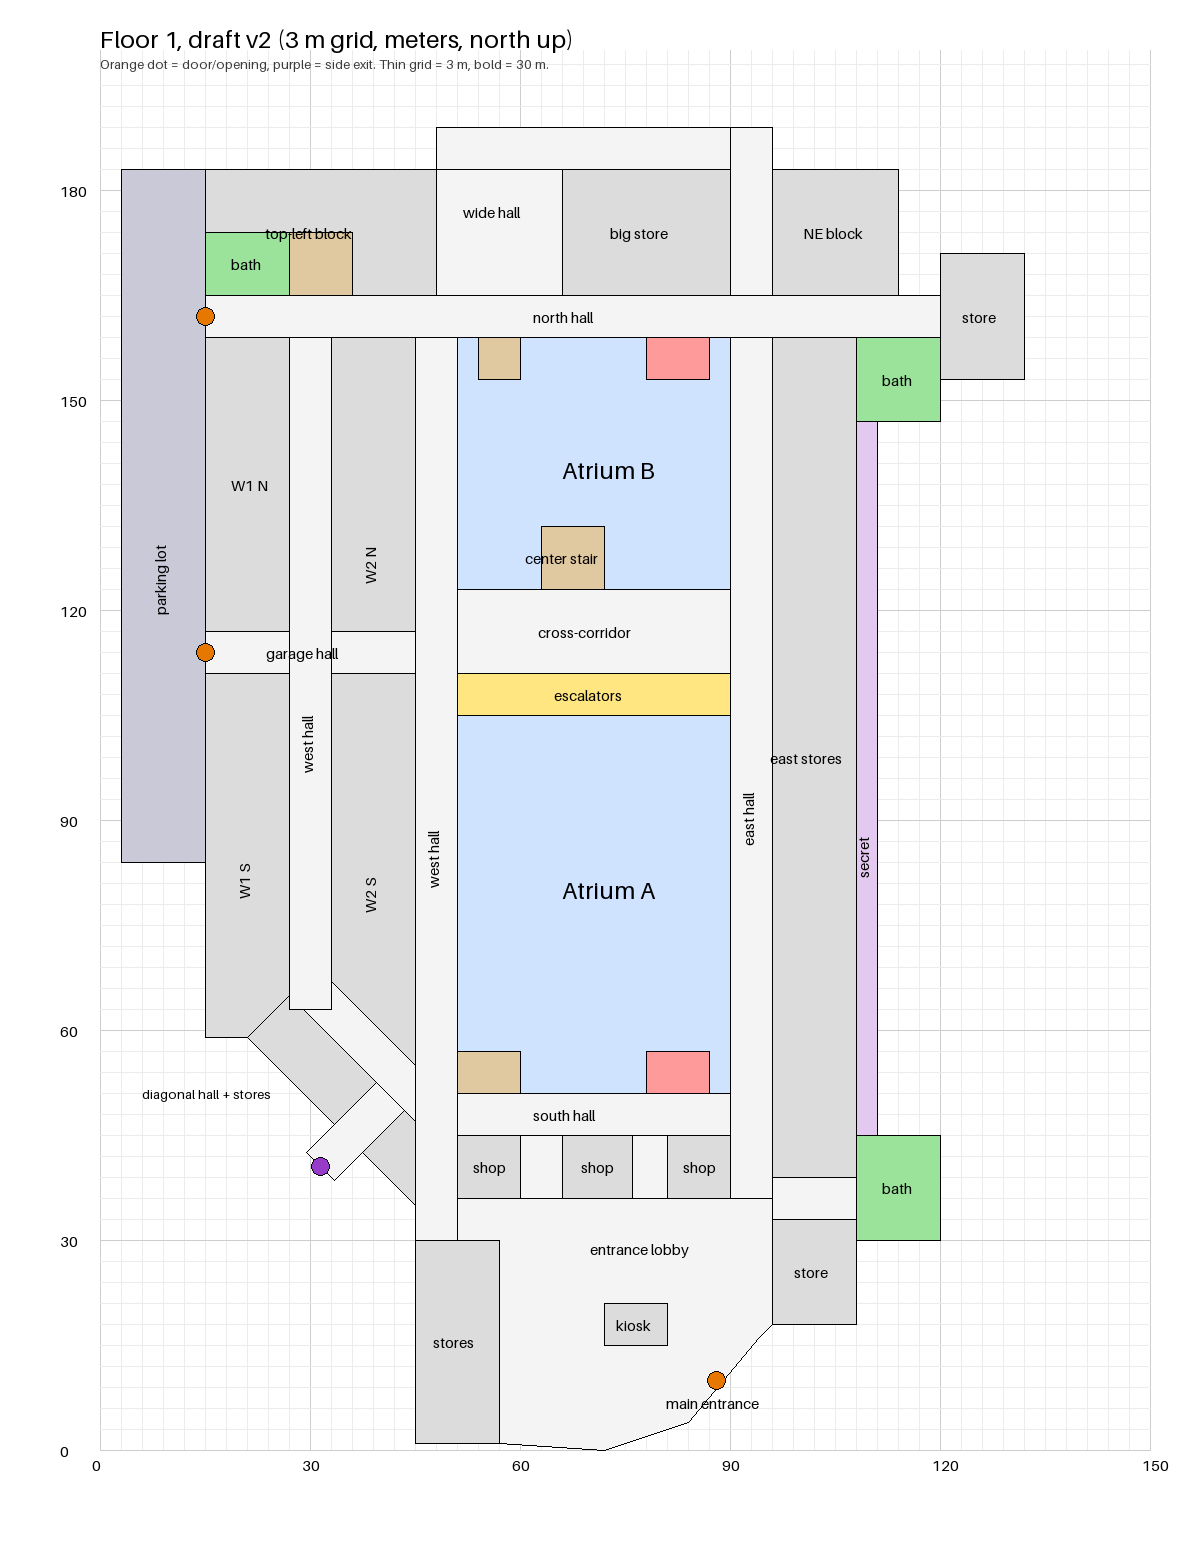
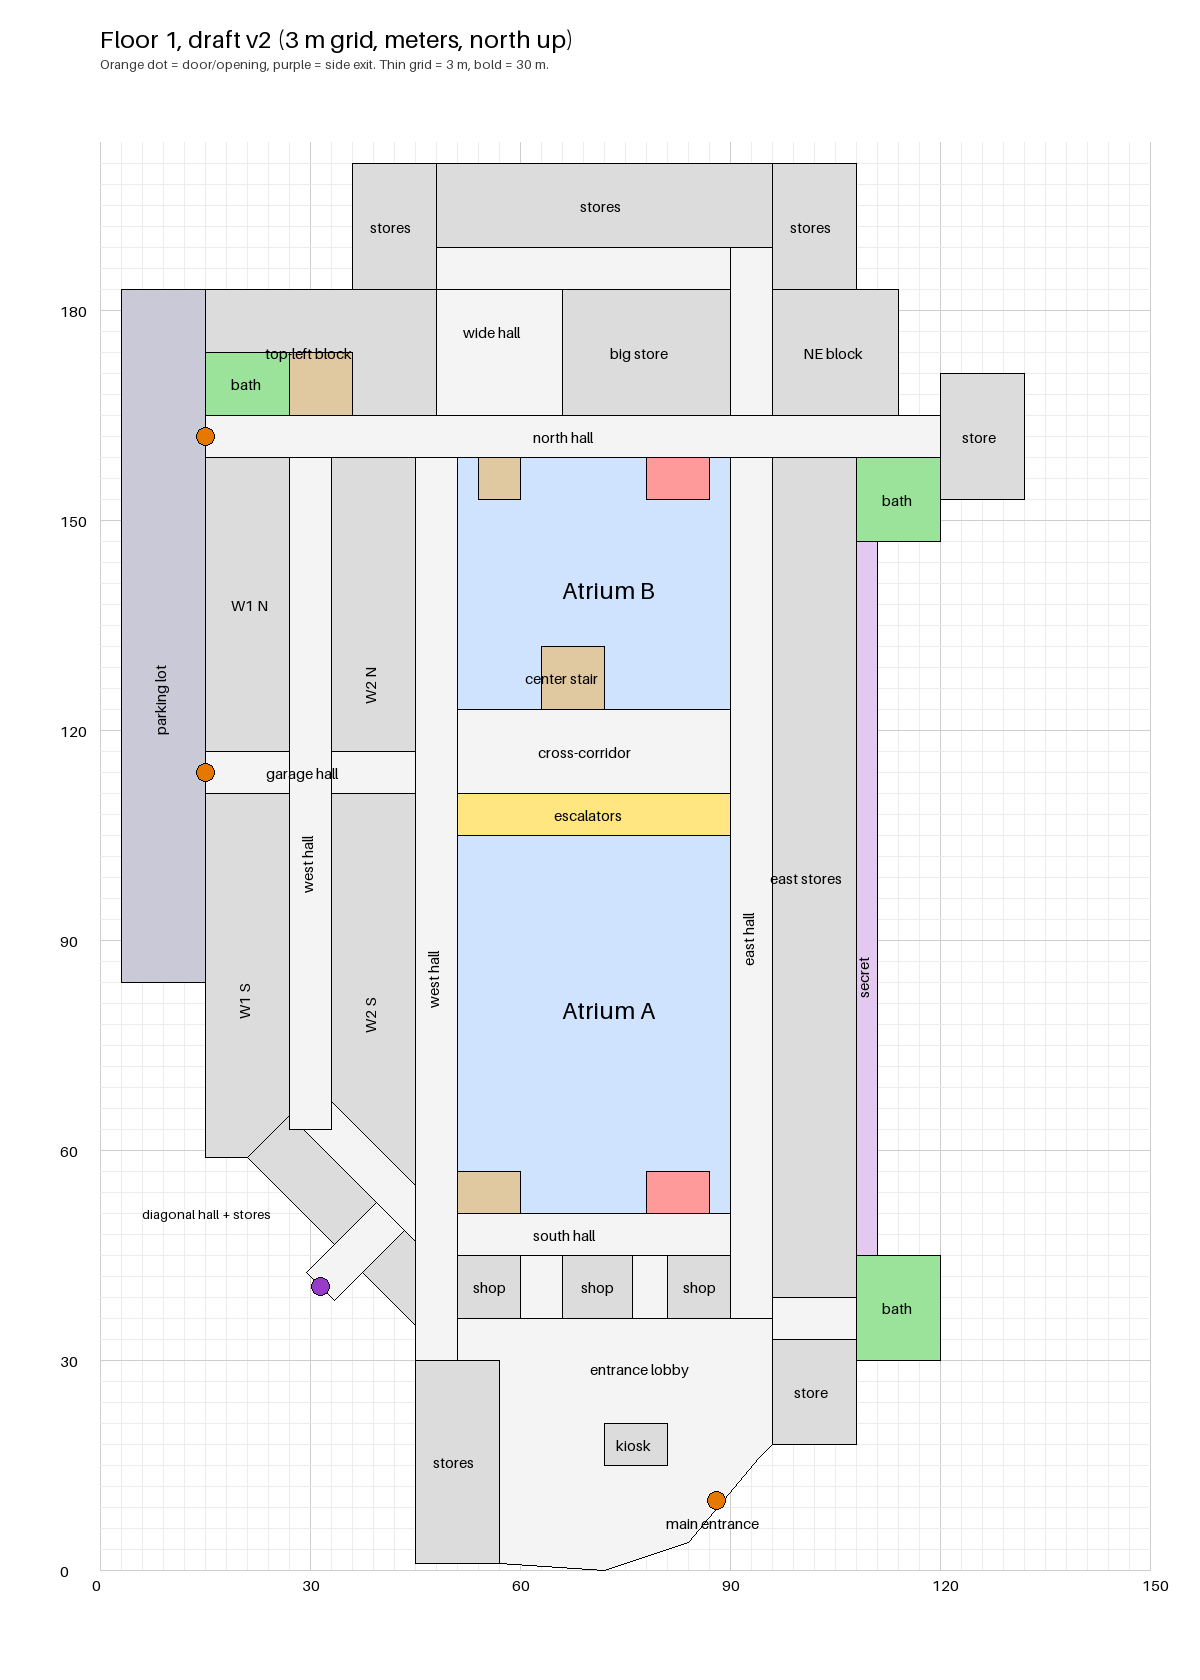
floor 1 plan ready

diff --git a/docs/floorplans/floor1_notes.md b/docs/floorplans/floor1_notes.md
@@ -109,6 +109,8 @@ Files: `floor1_plan_v2.png` and `floor1_plan_v2.json` (v1 is kept for comparison
 
 **South shops and diagonal hall (v2):** the west shop and Atrium A's stairs both start at the atrium's west side (x 51 to 60). To make room, the 45 degree diagonal hall now ends at the inner west hall instead of running into the lobby. The inner west hall runs down to the lobby, whose north-west corner widens to meet it (x 51 to 57, y 30 to 36). The west store block stops at x 45 and runs south along the inner hall into the lobby's west stores. The three shops (x 51 to 60, 66 to 76, 81 to 90) are separated by walkable passages: 6 m after the west shop and 5 m between the middle and east shops, both linking the south hall to the lobby.
 
+**North stores (v2):** a store block (12 m deep, x 48 to 96, y 189 to 201) lines the outer, north side of the hall behind the wide hall and the big store, and wraps around both ends of that hall (12 m blocks at x 36 to 48 and x 96 to 108, y 183 to 201).
+
 ## Open questions
 
 1. **Scale.** Measured from the real building outline; see "Scale check". Decision needed on how to use it.
